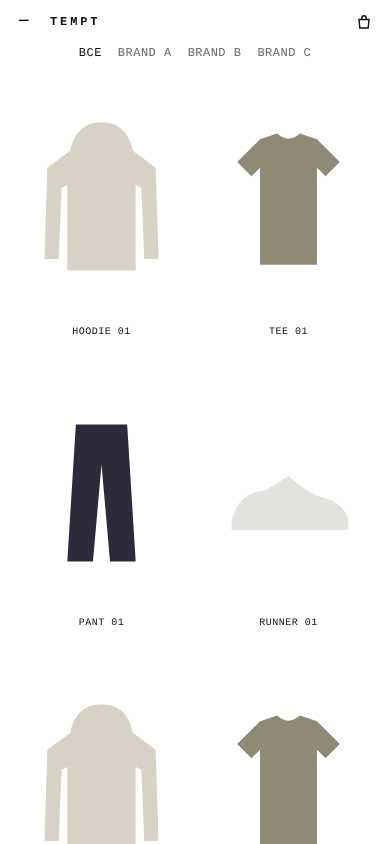
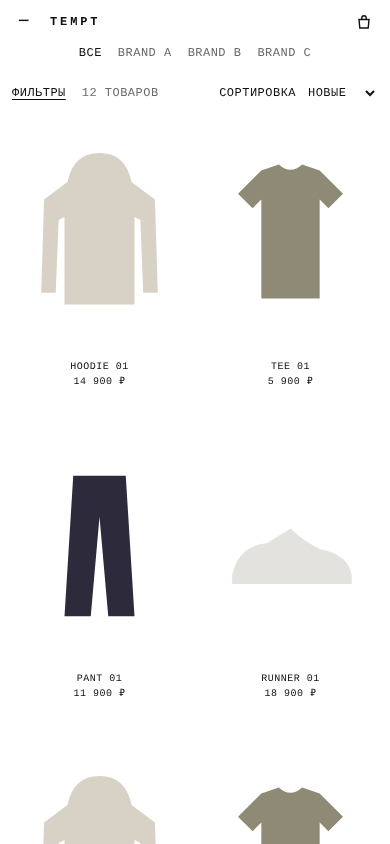
Каталог: фильтры слева и сортировка, цена под фото
Claude-Session: https://claude.ai/code/session_01VCWhNwmSztxzZn2XqaQAQu

diff --git a/public/app.js b/public/app.js
@@ -5,7 +5,8 @@ const img = src => (src ? `<img src="${esc(src)}" alt="" loading="lazy">` : '');
 const store = (k, v) => { try { return v === undefined ? localStorage.getItem(k) : localStorage.setItem(k, v); } catch {} };
 
 let products = [];
-let brand = '';
+const sel = { brand: new Set(), color: new Set(), size: new Set() };
+let sort = 'new';
 let current = null;
 let homeScroll = 0;
 let dense = store('dense') !== '0';
@@ -23,27 +24,53 @@ function view(name) {
 }
 
 // --- каталог ---
+const uniq = arr => [...new Set(arr.filter(Boolean))];
+const GROUPS = [
+  ['brand', 'Бренды', () => uniq(products.map(p => p.brand)).sort()],
+  ['color', 'Цвет', () => uniq(products.map(p => p.color)).sort()],
+  ['size', 'Размер', () => uniq(products.flatMap(p => p.sizes))],
+];
+const oneBrand = () => (sel.brand.size === 1 ? [...sel.brand][0] : '');
+
 function renderBrands() {
-  const list = [...new Set(products.map(p => p.brand))].sort();
-  $('#brands').innerHTML = ['', ...list]
-    .map(b => `<a href="${b ? '#/b/' + encodeURIComponent(b) : '#/'}"${b === brand ? ' class="on" aria-current="page"' : ''}>${esc(b || 'Все')}</a>`)
-    .join('');
+  const cur = oneBrand();
+  $('#brands').innerHTML = `<a href="#/" data-all${sel.brand.size ? '' : ' class="on" aria-current="page"'}>Все</a>` +
+    GROUPS[0][2]().map(b => `<a href="#/b/${encodeURIComponent(b)}"${b === cur ? ' class="on" aria-current="page"' : ''}>${esc(b)}</a>`).join('');
+}
+
+function renderFilters() {
+  $('#filters').innerHTML = '<div class="f-head"><span>Фильтры</span><button id="clear">Сбросить</button></div>' +
+    GROUPS.map(([key, title, values]) => {
+      const vals = values();
+      return vals.length
+        ? `<div class="f-group"><h4>${title}</h4>${vals.map(v => `<label><input type="checkbox" data-g="${key}" value="${esc(v)}"${sel[key].has(v) ? ' checked' : ''}>${esc(v)}</label>`).join('')}</div>`
+        : '';
+    }).join('');
 }
 
 function renderGrid() {
-  const list = brand ? products.filter(p => p.brand === brand) : products;
+  const match = (key, v) => !sel[key].size || [].concat(v).some(x => sel[key].has(x));
+  const list = products.filter(p => match('brand', p.brand) && match('color', p.color || '') && match('size', p.sizes));
+  if (sort !== 'new') list.sort((a, b) => (sort === 'asc' ? a.price - b.price : b.price - a.price));
+  const n = list.length;
+  $('#count').textContent = `${n} ${n % 10 === 1 && n % 100 !== 11 ? 'товар' : [2, 3, 4].includes(n % 10) && ![12, 13, 14].includes(n % 100) ? 'товара' : 'товаров'}`;
   $('#grid').classList.toggle('large', !dense);
   $('#density').textContent = dense ? '+' : '−';
-  $('#grid').innerHTML = list.length
-    ? list.map(p => `<a class="item${p.soldOut ? ' out' : ''}" href="#/p/${encodeURIComponent(p.id)}"><div class="img">${img(p.images[0])}</div><div class="cap">${esc(p.name)}${p.soldOut ? '<br>Нет в наличии' : ''}</div></a>`).join('')
+  $('#grid').innerHTML = n
+    ? list.map(p => `<a class="item${p.soldOut ? ' out' : ''}" href="#/p/${encodeURIComponent(p.id)}"><div class="img">${img(p.images[0])}</div><div class="cap">${esc(p.name)}<br>${p.soldOut ? 'Нет в наличии' : rub(p.price)}</div></a>`).join('')
     : '<p class="empty">Ничего не найдено</p>';
+}
+
+function refresh() {
+  renderBrands();
+  renderFilters();
+  renderGrid();
 }
 
 function showHome() {
   const fromProduct = view('home');
-  document.title = brand ? `${brand} — TEMPT` : 'TEMPT';
-  renderBrands();
-  renderGrid();
+  document.title = oneBrand() ? `${oneBrand()} — TEMPT` : 'TEMPT';
+  refresh();
   scrollTo(0, fromProduct ? homeScroll : 0);
 }
 
@@ -119,7 +146,7 @@ function route() {
   if (m) return showProduct(decodeURIComponent(m[1]));
   if (location.hash === '#/cart') return showCart();
   const b = /^#\/b\/(.+)$/.exec(location.hash);
-  brand = b && products.some(p => p.brand === decodeURIComponent(b[1])) ? decodeURIComponent(b[1]) : '';
+  if (b) sel.brand = new Set([decodeURIComponent(b[1])]);
   showHome();
 }
 
@@ -127,6 +154,32 @@ function route() {
 $('#density').onclick = () => {
   dense = !dense;
   store('dense', dense ? '1' : '0');
+  renderGrid();
+};
+$('#brands').onclick = e => {
+  if (!e.target.closest('[data-all]')) return;
+  sel.brand.clear();
+  if (location.hash === '#/' || location.hash === '') { e.preventDefault(); refresh(); }
+};
+$('#filters').onchange = e => {
+  const { g } = e.target.dataset;
+  e.target.checked ? sel[g].add(e.target.value) : sel[g].delete(e.target.value);
+  if (location.hash.startsWith('#/b/')) history.replaceState(null, '', '#/');
+  renderBrands();
+  renderGrid();
+};
+$('#filters').onclick = e => {
+  if (e.target.id !== 'clear') return;
+  Object.values(sel).forEach(s => s.clear());
+  if (location.hash.startsWith('#/b/')) history.replaceState(null, '', '#/');
+  refresh();
+};
+$('#filters-toggle').onclick = () => {
+  const open = $('#filters').classList.toggle('shown');
+  $('#filters-toggle').setAttribute('aria-expanded', String(open));
+};
+$('#sort').onchange = e => {
+  sort = e.target.value;
   renderGrid();
 };
 $('#grid').onclick = e => {

diff --git a/public/style.css b/public/style.css
@@ -25,8 +25,20 @@ body[data-view=product] #density{display:none}
 .home-link{font-size:12px}
 
 /* каталог */
-.grid{display:grid;grid-template-columns:repeat(6,1fr);gap:48px 24px;padding:32px 32px 96px}
-.grid.large{grid-template-columns:repeat(3,1fr);gap:72px 40px;padding:32px 64px 96px}
+.bar{display:flex;align-items:center;gap:24px;padding:16px 32px 0 228px}
+.bar .sort{margin-left:auto;display:flex;align-items:center;gap:8px}
+.sort select{border:0;background:none;font:inherit;letter-spacing:inherit;text-transform:inherit;color:inherit;cursor:pointer}
+#filters-toggle{display:none}
+.layout{display:grid;grid-template-columns:172px 1fr;gap:24px;padding:0 32px 0 32px;align-items:start}
+.filters{position:sticky;top:calc(var(--h) + 24px);padding-top:32px;font-size:11px}
+.f-head{display:flex;justify-content:space-between;margin-bottom:20px}
+.f-head button{color:var(--text-muted);text-decoration:underline;text-underline-offset:3px}
+.f-group{margin-bottom:20px}
+.f-group h4{font-weight:700;font-size:11px;margin-bottom:8px}
+.f-group label{display:flex;align-items:center;gap:8px;padding:2px 0;cursor:pointer}
+.f-group input{width:12px;height:12px;accent-color:var(--accent);cursor:pointer}
+.grid{display:grid;grid-template-columns:repeat(5,1fr);gap:48px 24px;padding:32px 0 96px}
+.grid.large{grid-template-columns:repeat(3,1fr);gap:72px 40px}
 .item{display:flex;flex-direction:column;align-items:center;text-align:center}
 .item .img{width:100%;aspect-ratio:1;display:flex;align-items:center;justify-content:center}
 .item img{max-width:100%;max-height:100%;object-fit:contain;transition:transform .3s}
@@ -114,8 +126,13 @@ body.co header{display:none}
   .brands{grid-column:1/-1;grid-row:2;max-width:100%;justify-content:safe center;gap:16px;padding:0 0 10px}
   header>.bag{grid-column:3;grid-row:1}
   body[data-view=product] .brands{display:none}
-  .grid{grid-template-columns:repeat(3,1fr);gap:28px 12px;padding:16px 12px 64px}
-  .grid.large{grid-template-columns:repeat(2,1fr);gap:40px 16px;padding:16px 16px 64px}
+  .bar{padding:12px 12px 0;gap:16px}
+  #filters-toggle{display:block}
+  .layout{grid-template-columns:1fr;padding:0 12px;gap:0}
+  .filters{display:none;position:static;padding-top:16px}
+  .filters.shown{display:block}
+  .grid{grid-template-columns:repeat(3,1fr);gap:28px 12px;padding:16px 0 64px}
+  .grid.large{grid-template-columns:repeat(2,1fr);gap:40px 16px}
   .cap{font-size:10px;margin-top:8px}
   .gallery{height:56vh}
   .co-grid{grid-template-columns:1fr;gap:40px}

diff --git a/public/index.html b/public/index.html
@@ -19,7 +19,21 @@
 </header>
 
 <main id="home">
-  <div class="grid" id="grid"></div>
+  <div class="bar">
+    <button class="link" id="filters-toggle" aria-expanded="false" aria-controls="filters">Фильтры</button>
+    <span class="mute" id="count"></span>
+    <label class="sort">Сортировка
+      <select id="sort">
+        <option value="new">Новые</option>
+        <option value="asc">Дешевле</option>
+        <option value="desc">Дороже</option>
+      </select>
+    </label>
+  </div>
+  <div class="layout">
+    <aside class="filters" id="filters" aria-label="Фильтры"></aside>
+    <div class="grid" id="grid"></div>
+  </div>
   <footer class="foot"><span>© TEMPT</span><a href="/privacy.html">Политика конфиденциальности</a></footer>
 </main>
 
